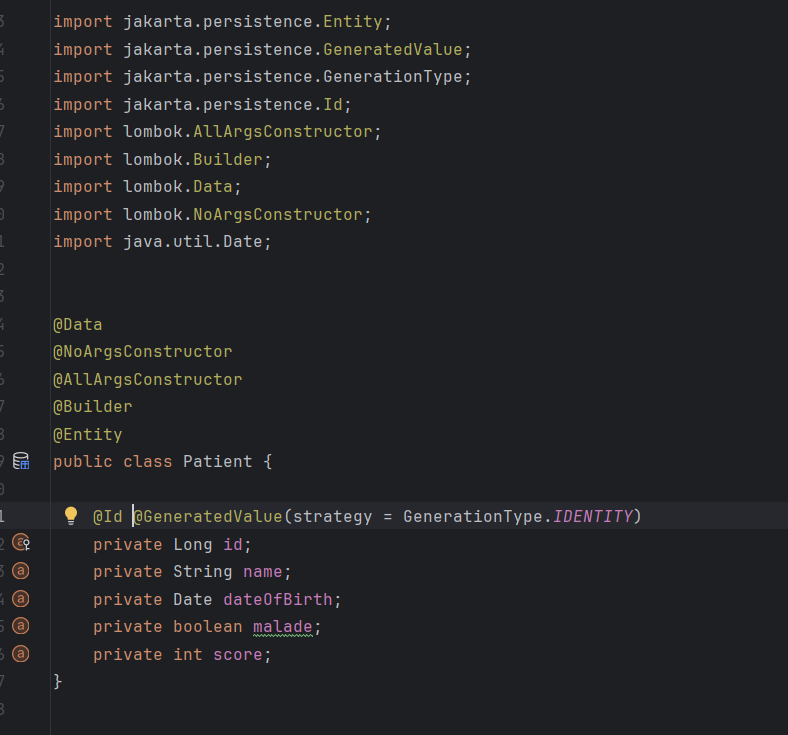
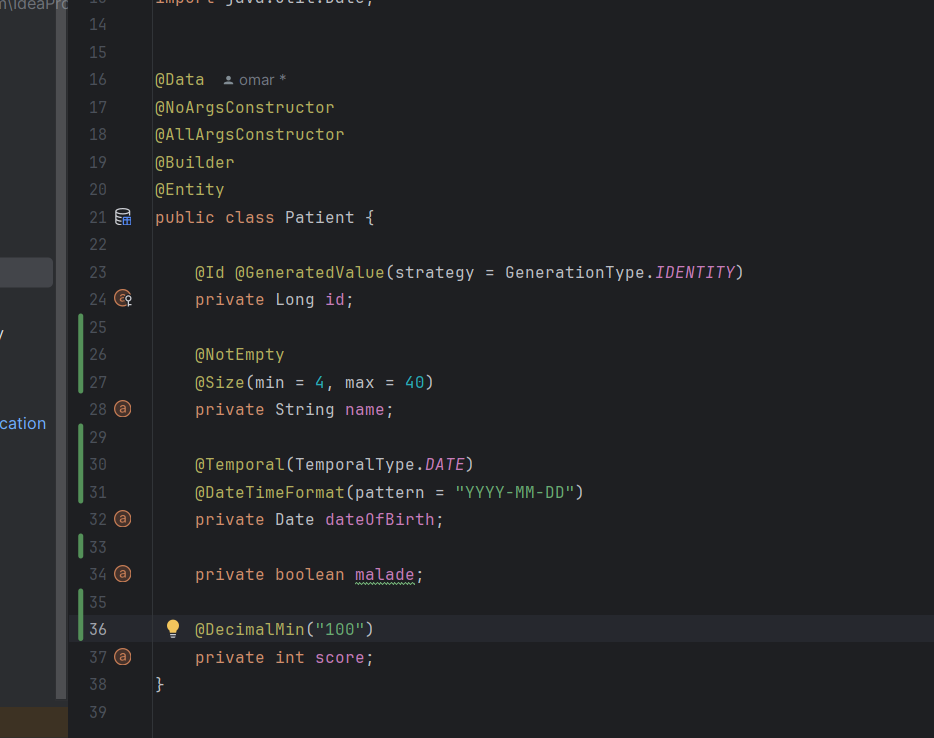
Part2

Changed region(s): [[0.0, 0.0, 0.8223, 1.0]]

diff --git a/src/main/resources/templates/template1.html b/src/main/resources/templates/template1.html
@@ -1,0 +1,58 @@
+<!DOCTYPE html>
+<html lang="en"
+      xmlns:th="http://www.thymeleaf.org"
+      xmlns:layout="http://www.ultraq.net.nz/thymeleaf/layout">
+<head>
+    <meta charset="UTF-8">
+    <title>Title</title>
+</head>
+<body>
+<link rel="stylesheet" type="text/css" href="/webjars/bootstrap/5.3.5/css/bootstrap.min.css">
+<script src="/webjars/bootstrap/5.3.5/js/bootstrap.bundle.js"></script>
+
+<nav class="navbar navbar-expand-sm bg-dark navbar-dark">
+    <div class="container-fluid">
+        <ul class="navbar-nav">
+            <li class="nav-item">
+                <a class="nav-link active" th:href="@{index}">Home</a>
+            </li>
+            <li class="nav-item">
+                <a class="nav-link" href="#">Link</a>
+            </li>
+            <li class="nav-item">
+                <a class="nav-link" href="#">Link</a>
+            </li>
+            <li class="nav-item">
+                <a class="nav-link disabled" href="#">Disabled</a>
+            </li>
+            <li class="nav-item dropdown">
+                <a class="nav-link dropdown-toggle" href="#" role="button" data-bs-toggle="dropdown">
+                    Patients
+                </a>
+                <ul class="dropdown-menu">
+                    <li><a class="dropdown-item" th:href="@{/formPatients}">Nouveau</a></li>
+                    <li><a class="dropdown-item" th:href="@{index}">Chercher</a></li>
+                </ul>
+            </li>
+        </ul>
+
+        <ul class="navbar-nav">
+            <li class="nav-item dropdown">
+                <a class="nav-link dropdown-toggle" href="#" role="button" data-bs-toggle="dropdown">
+                    [Username]
+                </a>
+                <ul class="dropdown-menu">
+                    <li><a class="dropdown-item" th:href="@{/formPatients}">Logout</a></li>
+                </ul>
+            </li>
+        </ul>
+    </div>
+</nav>
+
+<section layout:fragment="content1">
+
+
+</section>
+
+</body>
+</html>

diff --git a/src/main/resources/templates/editPatient.html b/src/main/resources/templates/editPatient.html
@@ -1,0 +1,50 @@
+<!DOCTYPE html>
+<html lang="en"
+      xmlns:th="http://www.thymeleaf.org"
+      xmlns:layout="http://www.ultraq.net.nz/thymeleaf/layout"
+      layout:decorate="template1">
+<head>
+    <meta charset="UTF-8">
+    <title>Edit Patients</title>
+    <link rel="stylesheet" href="/webjars/bootstrap/5.3.5/css/bootstrap.min.css">
+</head>
+<body>
+<div layout:fragment="content1">
+    <div class="col-md-6 offset-3">
+        <form method="post" th:action="@{save(page=${page},keyword=${keyword})}">
+            <div>
+                <label>ID :</label>
+                <label th:text="${patient.id}"></label>
+                <input class="form-control" type="hidden" name="id" th:value="${patient.id}">
+            </div>
+
+            <div>
+                <label for="nom">Nom</label>
+                <input id="nom" class="form-control" type="text" name="nom" th:value="${patient.name}">
+                <span class="text-danger" th:errors="${patient.name}"></span>
+            </div>
+
+            <div>
+                <label>Date de Naissance</label>
+                <input class="form-control" type="date" name="DateNaissance" th:value="${patient.dateOfBirth}">
+                <span class="text-danger" th:errors="${patient.dateOfBirth}"></span>
+            </div>
+
+            <div>
+                <label>Malade</label>
+                <input type="checkbox" name="malade" th:checked="${patient.malade}">
+                <span class="text-danger" th:errors="${patient.malade}"></span>
+            </div>
+
+            <div>
+                <label>Score</label>
+                <input class="form-control" type="text" name="nom" th:value="${patient.score}">
+                <span class="text-danger" th:errors="${patient.score}"></span>
+            </div>
+
+            <button type="submit" class="btn btn-success">Edit</button>
+        </form>
+    </div>
+</div>
+</body>
+</html>

diff --git a/src/main/resources/templates/formPatients.html b/src/main/resources/templates/formPatients.html
@@ -1,0 +1,44 @@
+<!DOCTYPE html>
+<html lang="en"
+      xmlns:th="http://www.thymeleaf.org"
+      xmlns:layout="http://www.ultraq.net.nz/thymeleaf/layout"
+      layout:decorate="template1">
+<head>
+    <meta charset="UTF-8">
+    <title>Form Patients</title>
+    <link rel="stylesheet" href="/webjars/bootstrap/5.3.5/css/bootstrap.min.css">
+</head>
+<body>
+<div layout:fragment="content1">
+    <div class="col-md-6 offset-3">
+        <form method="post" th:action="@{save}">
+            <div>
+                <label for="nom">Nom</label>
+                <input id="nom" class="form-control" type="text" name="nom" th:value="${patient.name}">
+                <span class="text-danger" th:errors="${patient.name}"></span>
+            </div>
+
+            <div>
+                <label>Date de Naissance</label>
+                <input class="form-control" type="date" name="DateNaissance" th:value="${patient.dateOfBirth}">
+                <span class="text-danger" th:errors="${patient.dateOfBirth}"></span>
+            </div>
+
+            <div>
+                <label>Malade</label>
+                <input type="checkbox" name="malade" th:checked="${patient.malade}">
+                <span class="text-danger" th:errors="${patient.malade}"></span>
+            </div>
+
+            <div>
+                <label>Score</label>
+                <input class="form-control" type="text" name="score" th:value="${patient.score}">
+                <span class="text-danger" th:errors="${patient.score}"></span>
+            </div>
+
+            <button type="submit" class="btn btn-success">Save</button>
+        </form>
+    </div>
+</div>
+</body>
+</html>

diff --git a/src/main/resources/templates/patient.html b/src/main/resources/templates/patient.html
@@ -1,5 +1,8 @@
 <!DOCTYPE html>
-<html lang="en" xmlns:th="http://www.thymeleaf.org">
+<html lang="en"
+      xmlns:th="http://www.thymeleaf.org"
+        xmlns:layout="http://www.ultraq.net.nz/thymeleaf/layout"
+layout:decorate="template1">
 <head>
     <meta charset="UTF-8">
     <title>Title</title>
@@ -7,8 +10,8 @@
     <link rel="stylesheet" href="/webjars/bootstrap-icons/1.11.3/font/bootstrap-icons.min.css">
 </head>
 <body>
-
-    <div class="p-5">
+<div layout:fragment="content1">
+    <div class="container mt-2">
         <div class="card">
             <div class="card-header">Listes Patients</div>
             <div class="card-body">
@@ -35,7 +38,13 @@
                         <td>
                             <a onclick="return confirm('Etes-vous sûre de vouloir supprimer ?')"
                                th:href="@{delete(id=${p.id}, keyword=${keyword}, page=${currentPage})}" class="btn btn-danger">
-                                <i class="bi bi-trash"></i>
+                                <i class="bi bi-trash">Delete</i>
+                            </a>
+                        </td>
+
+                        <td>
+                            <a th:href="@{editPatient(id=${p.id}, keyword=${keyword}, page=${currentPage})}" class="btn btn-info">
+                                <i class="bi bi-pencil">Edit</i>
                             </a>
                         </td>
                     </tr>
@@ -53,5 +62,6 @@
             </div>
         </div>
     </div>
+</div>
 </body>
 </html>

diff --git a/src/main/java/omar/tp3mvchopital/web/PatientController.java b/src/main/java/omar/tp3mvchopital/web/PatientController.java
@@ -1,16 +1,20 @@
 package omar.tp3mvchopital.web;
 
 
+import jakarta.validation.Valid;
 import lombok.AllArgsConstructor;
 import omar.tp3mvchopital.entities.Patient;
 import omar.tp3mvchopital.repository.PatientRepository;
 import org.springframework.data.domain.Page;
 import org.springframework.data.domain.PageRequest;
 import org.springframework.stereotype.Controller;
-
 import org.springframework.ui.Model;
+import org.springframework.validation.BindingResult;
 import org.springframework.web.bind.annotation.GetMapping;
+import org.springframework.web.bind.annotation.PostMapping;
 import org.springframework.web.bind.annotation.RequestParam;
+import org.springframework.web.bind.annotation.ResponseBody;
+import java.util.List;
 
 
 @Controller
@@ -23,14 +27,14 @@ public class PatientController {
     public String index(Model model,
                         @RequestParam(name = "page", defaultValue = "0") int page,
                         @RequestParam(name = "size", defaultValue = "5") int size,
-                        @RequestParam(name = "keyword", defaultValue = "") String kw
+                        @RequestParam(name = "keyword", defaultValue = "") String keyword
                         ) {
 
-        Page<Patient> pagePatients = patientRepository.findByNameContains(kw, PageRequest.of(page, size));
-        model.addAttribute("ListPatients", pagePatients);
+        Page<Patient> pagePatients = patientRepository.findByNameContains(keyword, PageRequest.of(page, size));
+        model.addAttribute("ListPatients", pagePatients.getContent());
         model.addAttribute("pages", new int[pagePatients.getTotalPages()]);
         model.addAttribute("currentPage",page);
-        model.addAttribute("keyword", kw);
+        model.addAttribute("keyword", keyword);
         return "patient";
     }
 
@@ -41,5 +45,36 @@ public class PatientController {
         return "redirect:/index?page="+page+"&keyword="+keyword;
     }
 
+    @GetMapping("/patients")
+    @ResponseBody
+    public List<Patient> ListPatients(){
+        return patientRepository.findAll();
+    }
+
+    @GetMapping("/formPatients")
+    public String formPatients(Model model) {
+        model.addAttribute("patient", new Patient());
+        return "formPatients";
+    }
+
+    @PostMapping(path = "/save")
+    public String save(Model model,@Valid Patient patient, BindingResult bindingResult,
+                       @RequestParam(defaultValue = "0") int page,
+                       @RequestParam(defaultValue = "") String keyword){
+
+        if(bindingResult.hasErrors()) { return "formPatients"; }
+        patientRepository.save(patient);
+        return "redirect:/index?page="+page+"&keyword="+keyword;
+    }
+
+    @GetMapping("/editPatient")
+    public String EditPatients(Model model, Long id, String keyword , int page) {
+        Patient patient = patientRepository.findById(id).orElse(null);
+        if(patient == null) {throw new RuntimeException("Patient not found"); }
+        model.addAttribute("patient", patient);
+        model.addAttribute("keyword", keyword);
+        model.addAttribute("page",page);
+        return "editPatient";
+    }
 
 }

diff --git a/src/main/java/omar/tp3mvchopital/Tp3MvcHopitalApplication.java b/src/main/java/omar/tp3mvchopital/Tp3MvcHopitalApplication.java
@@ -6,26 +6,29 @@ import org.springframework.beans.factory.annotation.Autowired;
 import org.springframework.boot.CommandLineRunner;
 import org.springframework.boot.SpringApplication;
 import org.springframework.boot.autoconfigure.SpringBootApplication;
+import org.springframework.context.annotation.Bean;
 
 import java.time.LocalDate;
 import java.util.Date;
 
 @SpringBootApplication
-public class Tp3MvcHopitalApplication implements CommandLineRunner {
-
-    @Autowired
-    private PatientRepository patientRepository;
+public class Tp3MvcHopitalApplication{
 
     public static void main(String[] args) {
         SpringApplication.run(Tp3MvcHopitalApplication.class, args);
     }
 
-    @Override
-    public void run(String... args) throws Exception {
+    //@Bean
+    CommandLineRunner commandLineRunner (PatientRepository patientRepository) {
+        return args -> {
 
-        patientRepository.save(new Patient(null,"Othmane",new Date(),false,20));
-        patientRepository.save(new Patient(null,"Omar",new Date(),false,16));
-        patientRepository.save(new Patient(null,"Badr",new Date(),false,10));
+            patientRepository.save(new Patient(null,"Othmane",new Date(),false,120));
+            patientRepository.save(new Patient(null,"Omar",new Date(),false,116));
+            patientRepository.save(new Patient(null,"Badr",new Date(),false,110));
 
+            patientRepository.findAll().forEach(p->{
+                System.out.println(p.getName());
+            });
+        };
     }
 }

diff --git a/src/main/java/omar/tp3mvchopital/entities/Patient.java b/src/main/java/omar/tp3mvchopital/entities/Patient.java
@@ -1,13 +1,15 @@
 package omar.tp3mvchopital.entities;
 
-import jakarta.persistence.Entity;
-import jakarta.persistence.GeneratedValue;
-import jakarta.persistence.GenerationType;
-import jakarta.persistence.Id;
+import jakarta.persistence.*;
+import jakarta.validation.constraints.DecimalMin;
+import jakarta.validation.constraints.NotEmpty;
+import jakarta.validation.constraints.Size;
 import lombok.AllArgsConstructor;
 import lombok.Builder;
 import lombok.Data;
 import lombok.NoArgsConstructor;
+import org.springframework.format.annotation.DateTimeFormat;
+
 import java.util.Date;
 
 
@@ -20,8 +22,17 @@ public class Patient {
 
     @Id @GeneratedValue(strategy = GenerationType.IDENTITY)
     private Long id;
+
+    @NotEmpty
+    @Size(min = 4, max = 40)
     private String name;
+
+    @Temporal(TemporalType.DATE)
+    @DateTimeFormat(pattern = "YYYY-MM-DD")
     private Date dateOfBirth;
+
     private boolean malade;
+
+    @DecimalMin("100")
     private int score;
 }

diff --git a/src/main/java/omar/tp3mvchopital/repository/PatientRepository.java b/src/main/java/omar/tp3mvchopital/repository/PatientRepository.java
@@ -15,5 +15,4 @@ public interface PatientRepository extends JpaRepository<Patient, Long> {
 
     @Query("select p from Patient p where p.name like :x")
     Page<Patient> chercher (@Param("x") String keyword, Pageable pageable);
-
 }

diff --git a/README.MD b/README.MD
@@ -6,7 +6,13 @@
 
 <h2> Methodes used in Controller </h2>
 <img src="captures/3.png">
-
-<h2> HTML "Côte serveur" using thymeleaf </h2>
 <img src="captures/4.png">
+
+<h2> List des Patients </h2>
 <img src="captures/5.png">
+
+<h2> Form to Add Patients </h2>
+<img src="captures/6.png">
+
+<h2> Edit Patient Info </h2>
+<img src="captures/7.png">
